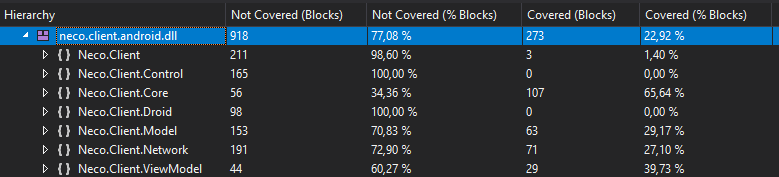
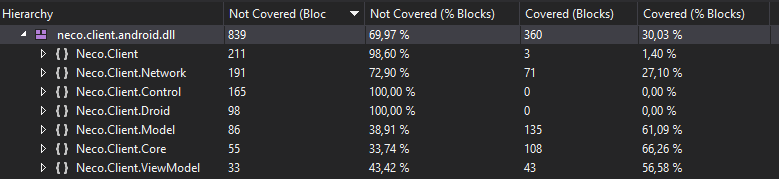
Update code coverage

diff --git a/Client/Neco.UnitTest/Tests/LobbyModelTest.cs b/Client/Neco.UnitTest/Tests/LobbyModelTest.cs
@@ -1,0 +1,66 @@
+using Microsoft.VisualStudio.TestTools.UnitTesting;
+using System;
+using System.Collections.Generic;
+using System.Linq;
+using System.Text;
+using System.Threading;
+using System.Threading.Tasks;
+
+namespace Neco.UnitTest
+{
+    [TestClass]
+    public class LobbyModelTest
+    {
+        Client.ViewModel.LobbyViewModel viewModel;
+        Client.Model.LobbyModel model;
+        public LobbyModelTest()
+        {
+            viewModel = new Client.ViewModel.LobbyViewModel(true);
+            model = viewModel.Model;
+        }
+
+        [TestMethod]
+        public void ShouldRefreshMemberlist()
+        {
+            var list = new List<string>()
+            {
+                "Heinz",
+                "Dödel"
+            };
+
+            model.RefreshMemberList(list);
+
+            Assert.AreEqual(viewModel.MemberIDs.Count, 2);
+        }
+
+        [TestMethod]
+        public void ShouldClearMemberlist()
+        {
+            var list = new List<string>()
+            {
+                 "00-11-22-33",
+                 "44-11-22-33"
+            };
+
+            model.RefreshMemberList(list);
+            model.RefreshMemberList(new List<string>());
+
+            Assert.AreEqual(viewModel.MemberIDs.Count, 0);
+        }
+
+        [TestMethod]
+        public void ShouldReturnKey()
+        {
+            var list = new List<string>()
+            {
+                "00-11-22-33"
+            };
+
+            model.RefreshMemberList(list);
+
+            var data = model.GetMemberKey("Session 0");
+
+            CollectionAssert.AreEqual(data, new byte[] { 0x00, 0x11, 0x22, 0x33 });
+        }
+    }
+}

diff --git a/Client/Neco.Client/Model/LobbyModel.cs b/Client/Neco.Client/Model/LobbyModel.cs
@@ -23,8 +23,9 @@ namespace Neco.Client.Model
         public LobbyModel(ViewModel.LobbyViewModel viewModel)
         {
             lobbyViewModel = viewModel;
+            memberPublicKeyDictionary = new Dictionary<string, string>();
 
-            App.Instance.Connector.Receive<SessionRequest>((message) =>
+            App.Instance?.Connector.Receive<SessionRequest>((message) =>
             {
                lobbyViewModel.NotifyUserForActiveSession(message.MemberKey);
             });
@@ -84,7 +85,7 @@ namespace Neco.Client.Model
             return false;
         }
 
-        private void RefreshMemberList(List<string> newMembers)
+        public void RefreshMemberList(List<string> newMembers)
         {
             //if(lobbyViewModel.Members != null && lobbyViewModel.Members.Count > 0) lobbyViewModel.Members.Clear();
             List<string> removeEntries = new List<string>();

diff --git a/Client/Neco.UnitTest/Tests/CryptoHandlerTest.cs b/Client/Neco.UnitTest/Tests/CryptoHandlerTest.cs
@@ -1,3 +1,4 @@
+using libsignal.ecc;
 using Microsoft.VisualStudio.TestTools.UnitTesting;
 using System;
 using System.Collections.Generic;
@@ -65,6 +66,14 @@ namespace Neco.UnitTest
         public void ShouldSerializePublicKey()
         {
             Assert.IsNotNull(handler.SerializePublicKey());
+        }
+
+        [TestMethod]
+        public void ShouldVerifyKeys()
+        {
+            Assert.IsFalse(handler.IsKeyArrayValid(new byte[] { (byte)Curve.DJB_TYPE }));
+            Assert.IsFalse(handler.IsKeyArrayValid(new byte[] { 0x00 }));
+            Assert.IsTrue(handler.IsKeyArrayValid(new byte[] { (byte)Curve.DJB_TYPE, 0x00 }));
         }
     }
 }

diff --git a/Client/Neco.Client/ViewModel/LobbyViewModel.cs b/Client/Neco.Client/ViewModel/LobbyViewModel.cs
@@ -11,11 +11,11 @@ namespace Neco.Client.ViewModel
         private LobbyPage lobbyView;
         private Model.LobbyModel lobbyModel;
 
-        public LobbyViewModel()
+        public LobbyViewModel(bool skipUi = false)
         {
             memberIdList = new ObservableCollection<ChatSessionID>();
             lobbyModel = new Model.LobbyModel(this);
-            lobbyView = new LobbyPage(this);
+            lobbyView = skipUi ? null : new LobbyPage(this);
         }
 
         public void NotifyUserForActiveSession(byte[] memberKey)

diff --git a/Client/Neco.Client/Core/CryptoHandler.cs b/Client/Neco.Client/Core/CryptoHandler.cs
@@ -27,7 +27,7 @@ namespace Neco.Client.Core
             }
         }
 
-        private bool IsKeyArrayValid(byte[] publicKeyBytes)
+        public bool IsKeyArrayValid(byte[] publicKeyBytes)
         {
             return publicKeyBytes.Length > 1 && publicKeyBytes[0] == (byte)Curve.DJB_TYPE;
         }
